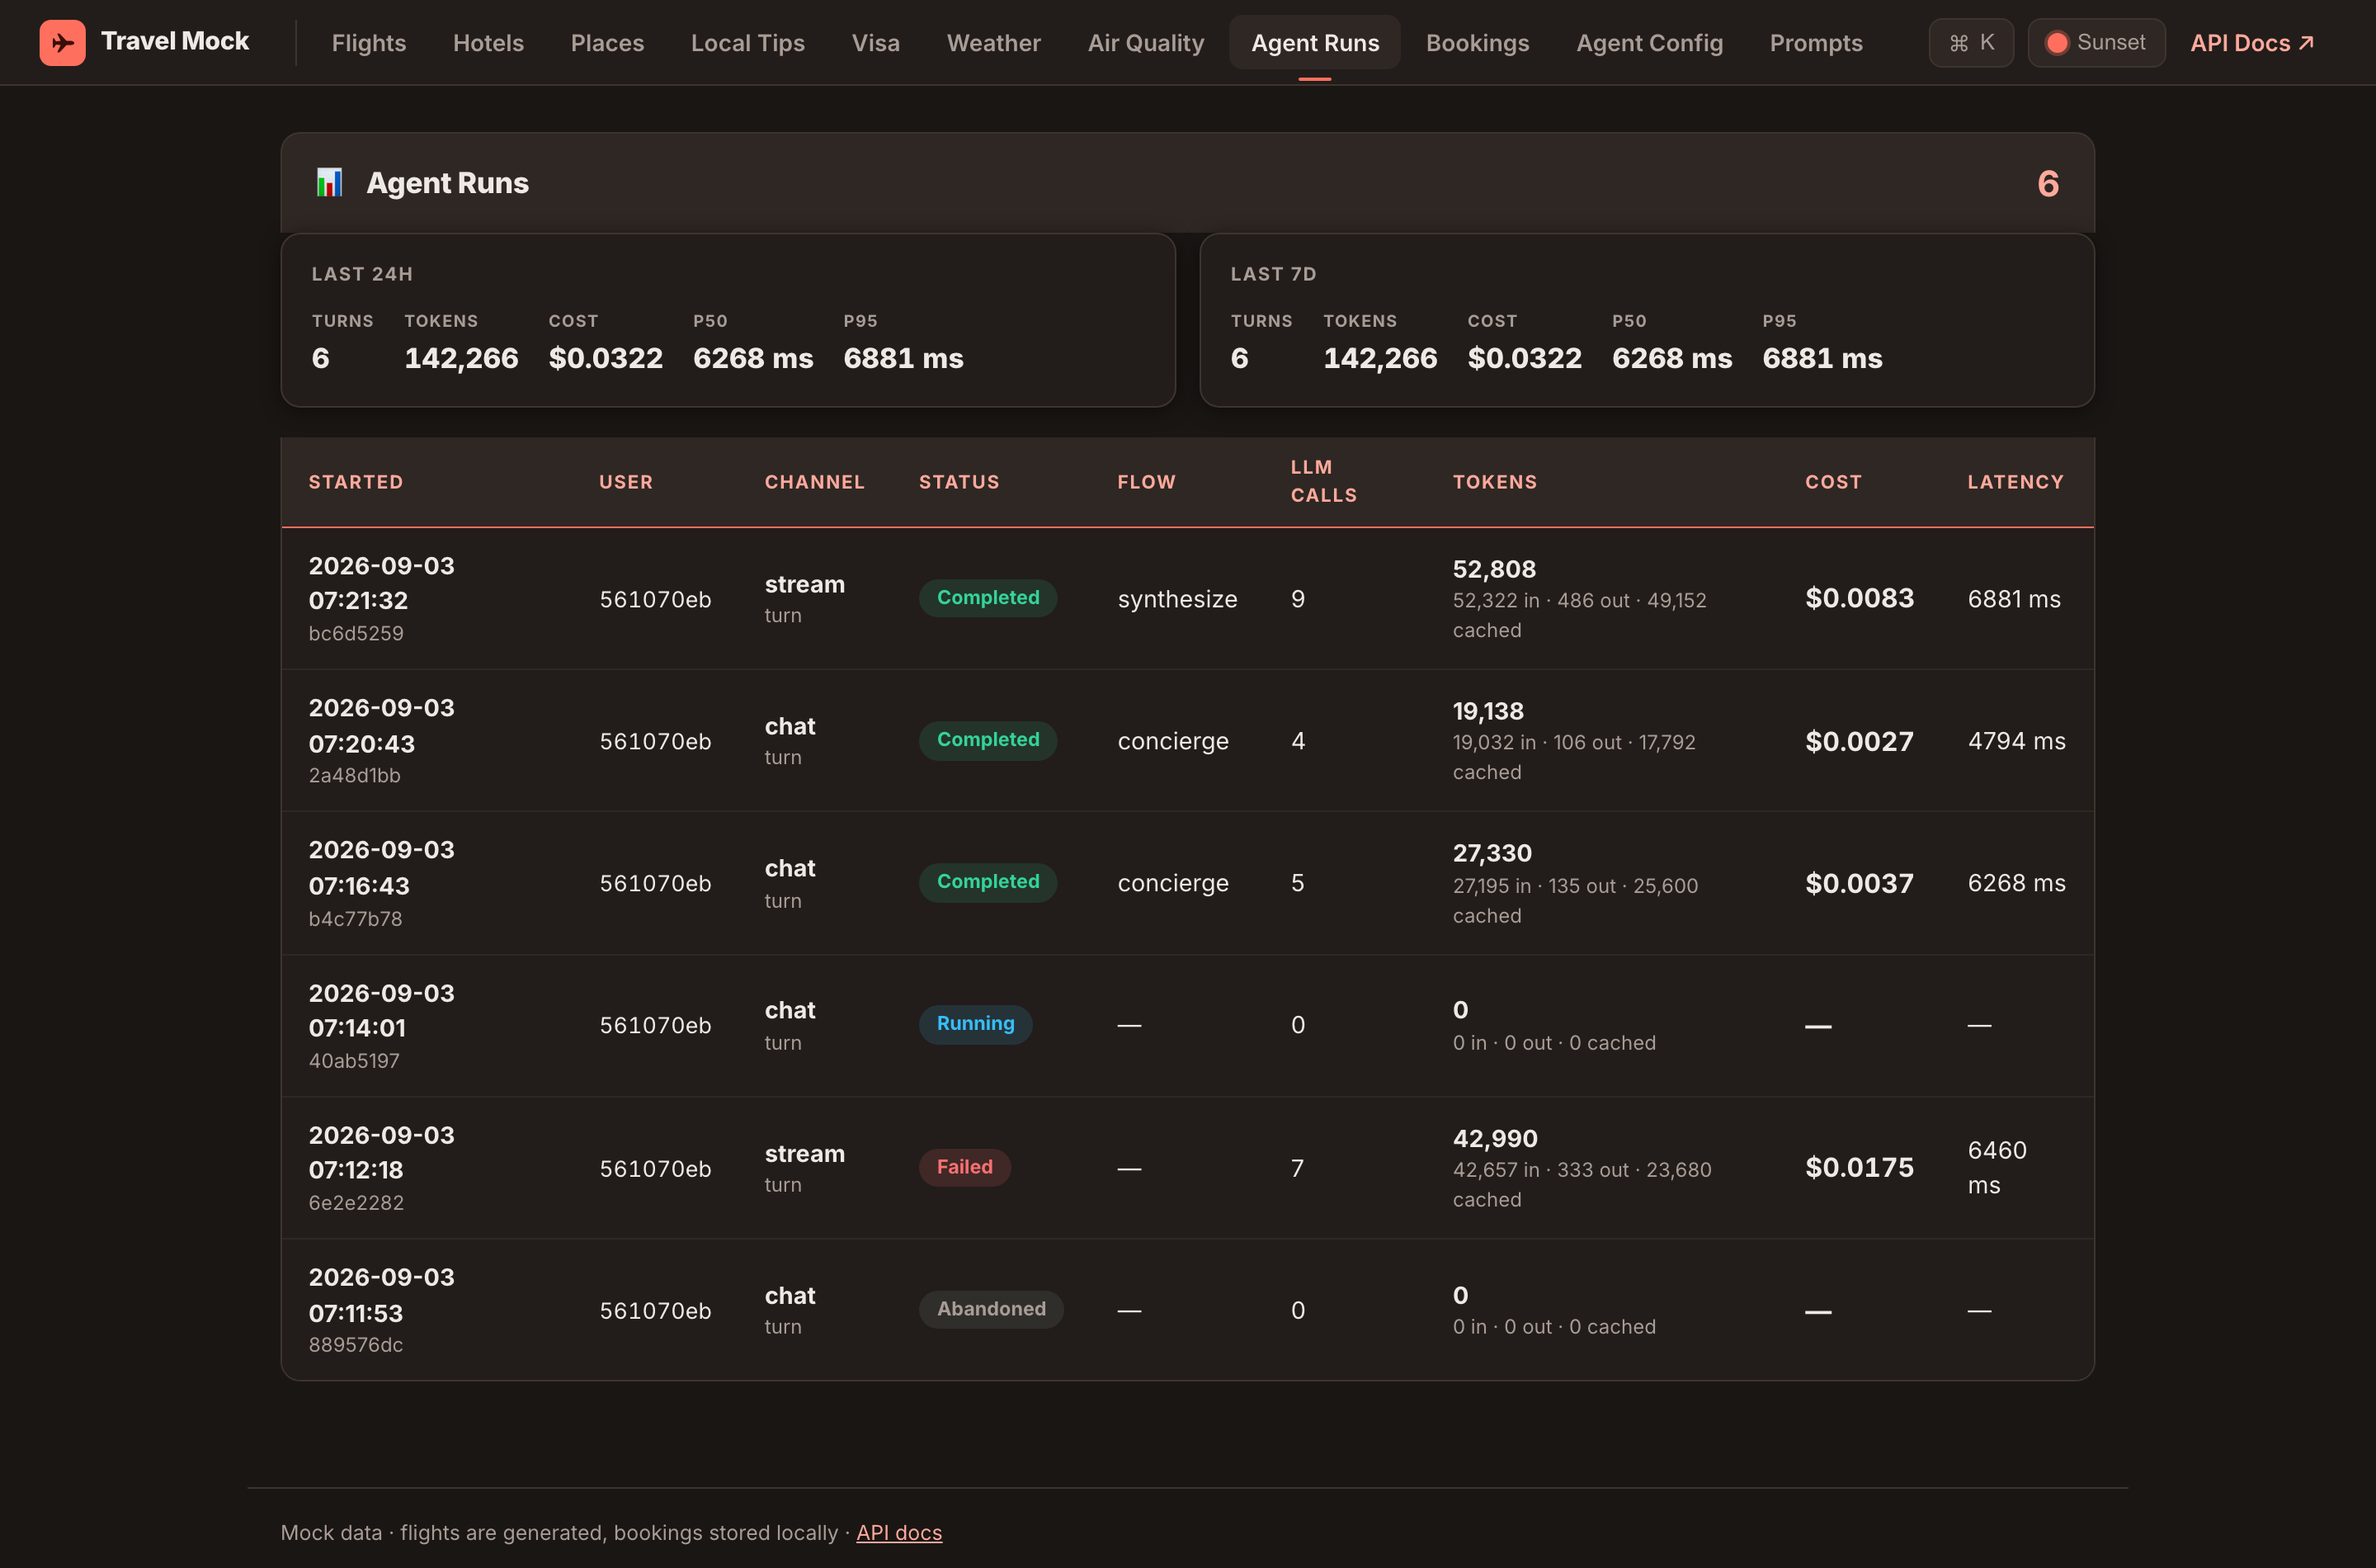
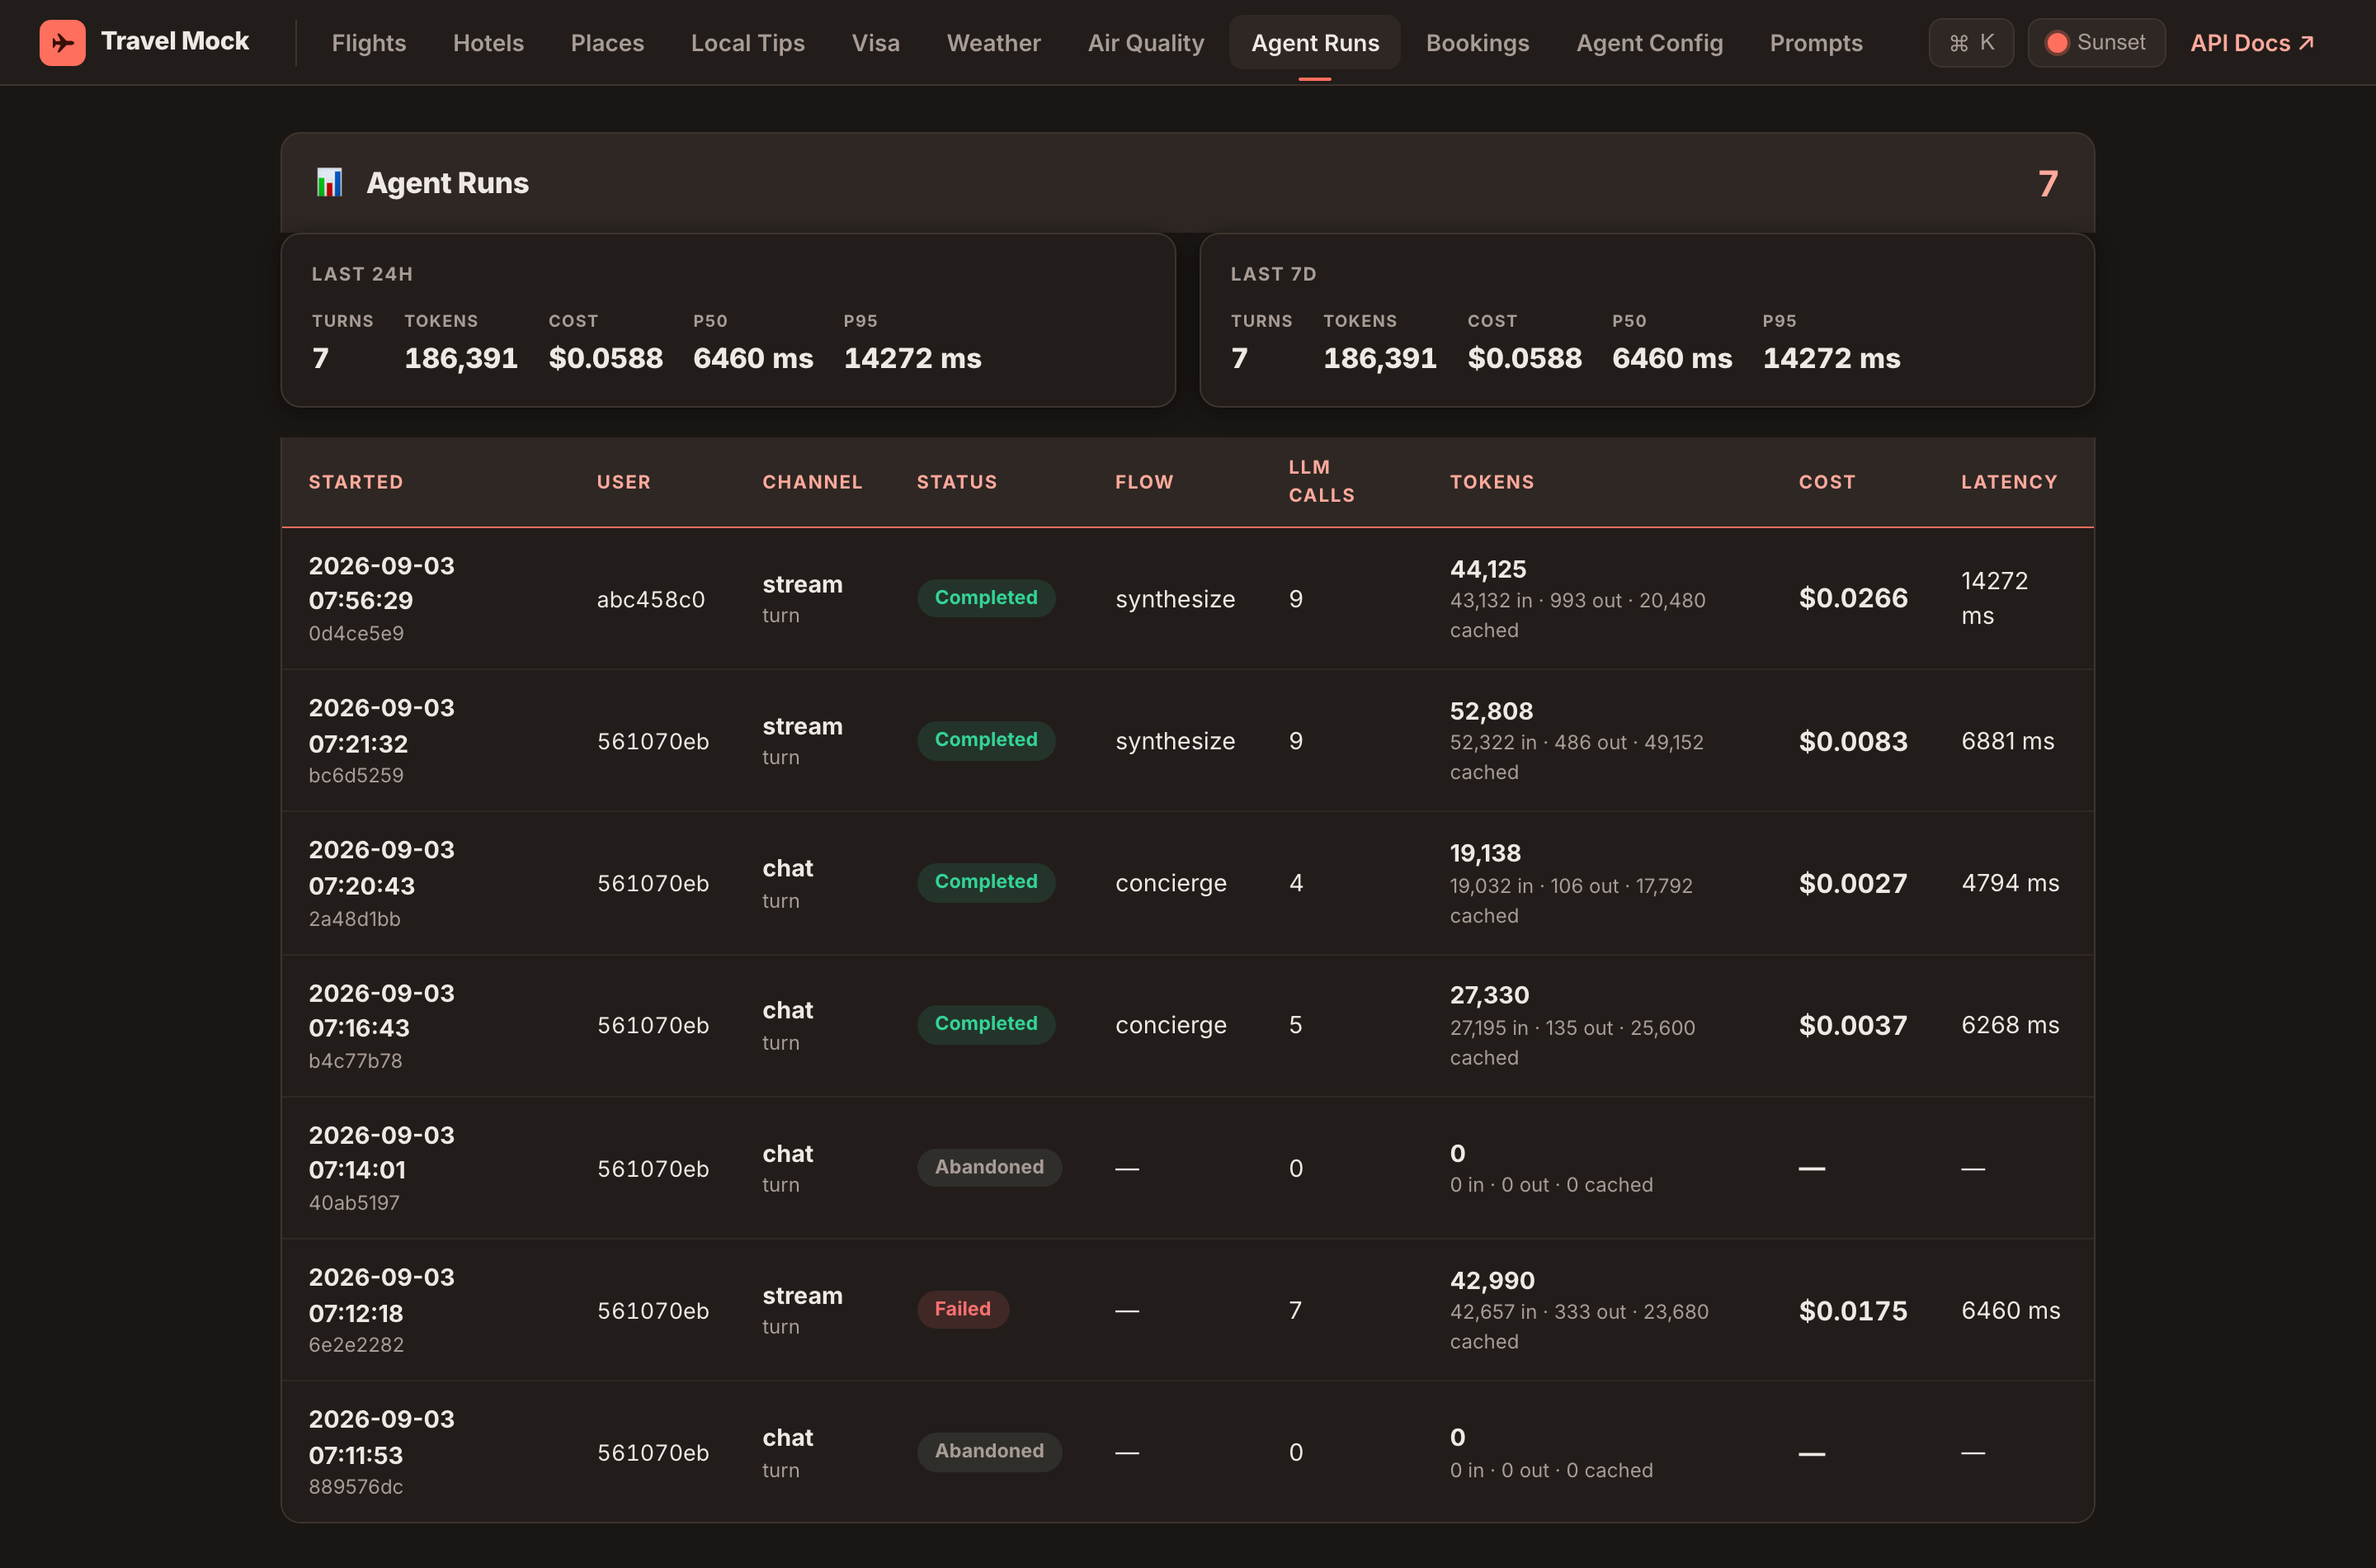
docs(agent-turn-metrics): re-run the 403 case with gpt-5 access granted
19/19 UAT cases. The multi-intent turn that previously failed on a provider 403
now completes, and it exercises the one path no earlier run reached: a cost
blended across two models whose names both carry dated snapshots
(gpt-5-2025-08-07 and gpt-5.4-mini-2026-03-17), so both had to pass through
normalize_model before the price table could resolve them.

The dashboard now shows the argument for the feature directly: two structurally
identical multi-intent turns cost $0.0266 and $0.0083, a 3.2x spread, purely
because one routed the synthesize node to gpt-5. That node has no agent_config
row, so it silently takes the env default — the per-model breakdown is what makes
the cause legible. Seven real turns, $0.0588 measured by the feature itself.

diff --git a/screenshots/uat-agent-turn-metrics/README.md b/screenshots/uat-agent-turn-metrics/README.md
@@ -3,7 +3,7 @@
 **Date:** 2026-09-03 · **Branch:** `feat/agent-turn-metrics` @ `cb55db6` (PR #131)
 **Base:** `main @ 1aee549`. **CI (Postgres):** api pass 11m35s · web pass 1m45s (run 33719713916).
 
-## Result: 18 / 18 PASS (12 offline + 6 against the live stack)
+## Result: 19 / 19 PASS (12 offline + 7 against the live stack)
 
 | # | Test case | Result | Evidence |
 |---|---|---|---|
@@ -30,8 +30,9 @@
 | LIVE-04 | The Alembic revision applies to real Postgres, creating the table and its three indexes | PASS |
 | LIVE-05 | A real dated-snapshot model name (`gpt-5.4-mini-2026-03-17`) resolves to a price | PASS |
 | LIVE-06 | `/agent/*` rejects an unauthenticated call (401) | PASS |
+| LIVE-07 | After gpt-5 access was granted, the previously-403 multi-intent turn completes and its cost is blended across **two** models, both dated snapshots (`0d4ce5e9`: 9 calls, **$0.0266**, 14,272 ms) | PASS |
 
-**Total measured cost of this UAT: $0.0322 across 6 real turns** — measured by the feature itself.
+**Total measured cost of this UAT: $0.0588 across 7 real turns** — measured by the feature itself.
 
 
 Machine-readable: `results.json` (each case lists the exact test node-ids behind it).
@@ -69,6 +70,23 @@ Every row is a real turn, and the screenshot happens to capture this branch's ow
 Cached-token accounting is working against the real provider: 49,152 of 52,322 input tokens were
 served from cache on that turn. That number is what makes the deferred prompt-caching spec
 measurable, which was the point of doing this one first.
+
+The clearest demonstration of why this feature exists is the top two rows. `0d4ce5e9` and
+`bc6d5259` are the *same* multi-intent request, same flow, same nine LLM calls — and they cost
+**$0.0266 and $0.0083**, a 3.2x spread. The only difference is which model answered the
+`synthesize` node: the first fell back to `gpt-5`, the second to `gpt-5.4-mini`. The per-model
+breakdown makes the cause legible — one `gpt-5` call producing 637 output tokens outweighs eight
+`gpt-5.4-mini` calls consuming 42,900 input tokens:
+
+```
+0d4ce5e9 by_model:
+  gpt-5-2025-08-07          1 call    232 in  /   637 out  /      0 cached
+  gpt-5.4-mini-2026-03-17   8 calls  42,900 in /   356 out  / 20,480 cached
+```
+
+Both names carry a dated snapshot suffix, so both had to pass through `normalize_model` before the
+price table could resolve them. Per-node timing on the same turn: `synthesize` 6,749 ms,
+`reflection` 2,418 ms, `supervisor` 961 ms, `load_context` 8 ms.
 
 ## Live guard check (TC10)
 
@@ -112,10 +130,11 @@ to eight characters with the full value in a `title` attribute.
 Two environment issues surfaced that belong to the project, not to this branch, and were left
 alone:
 
-- The account has no access to `gpt-5`, and the multi-intent `synthesize` / `synthesis_worker`
-  nodes have no `agent_config` row, so they fall back to the env default and 403. The live
-  multi-intent turn was run with `LLM_MODEL=gpt-5.4-mini` to work around it. Seeding an
-  `agent_config` row for those nodes is the real fix.
+- The multi-intent `synthesize` / `synthesis_worker` nodes have no `agent_config` row, so they
+  fall back to the env default. That first produced a 403 (the account lacked `gpt-5`); after
+  access was granted the turn completes, but it silently routes the most expensive node to the
+  most expensive model — a 3.2x cost difference for the same request. Seeding an `agent_config`
+  row for those nodes is the real fix, and the dashboard is now what makes the case for it.
 - `/agent/chat` still loses nothing now, but the same post-graph durability pattern is worth
   auditing on any future endpoint that writes after an `await`.
 
